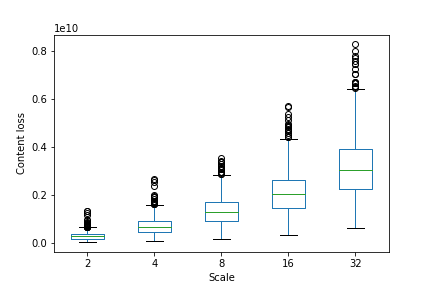
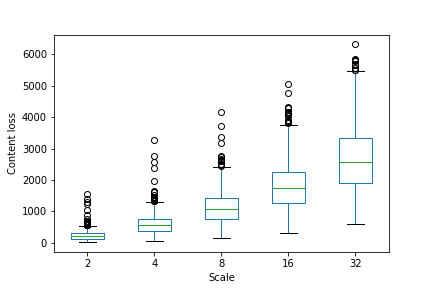
texture loss function plot

diff --git a/create_tfdataset.py b/create_tfdataset.py
@@ -1,60 +1,79 @@
 # -*- coding: utf-8 -*-
 """
-Created on Thu Oct 31 20:54:59 2019
+Created on Wed Nov  6 22:52:49 2019
 
 @author: valdis
 """
-
 import os, glob
 import pandas as pd
 import tensorflow as tf
 tf.compat.v1.enable_eager_execution()
-import matplotlib.pyplot as plt
+import matplotlib.pyplot as plt 
 
 def _parse_image_function(example_proto):
-    return tf.io.parse_single_example(example_proto, feature)
+    features = create_fetures(possible_scales)
+    return tf.io.parse_single_example(example_proto, features)
+
+def create_fetures(possible_scales):
+    features = {'original_image': tf.io.FixedLenFeature([], tf.string), 
+                'image_name': tf.io.FixedLenFeature([], tf.string),
+                'height': tf.io.FixedLenFeature([], tf.int64),
+                'width': tf.io.FixedLenFeature([], tf.int64)}
+    for scale in possible_scales:
+        features.update({'scale_image_' + scale: tf.io.FixedLenFeature([], tf.string)})
+    return features
     
-def loss_functions(original_image, upscale_image): 
-    original_image = tf.cast(original_image, tf.int64); upscale_image = tf.cast(upscale_image, tf.int64)
+def loss_functions(original_image, upscale_image, total_length): 
+    
     psnr_value = tf.image.psnr(original_image, upscale_image, max_val=255).numpy()
     content_loss = tf.reduce_sum(tf.square(tf.subtract(original_image, upscale_image))).numpy()   
-    return psnr_value, content_loss
-
+    
+    original_gram_matrix = tf.reduce_sum(tf.matmul(original_image, original_image, transpose_b=True))/total_length
+    upscale_gram_matrix = tf.reduce_sum(tf.matmul(upscale_image,upscale_image,transpose_b=True))/total_length
+    texture_loss = tf.keras.backend.mean(tf.square(original_gram_matrix-upscale_gram_matrix)).numpy()
+    
+    return psnr_value, content_loss/total_length, texture_loss/total_length
+   
 if __name__ == "__main__":
     
     PSNR_image = 'PSNR.png'
     content_image = 'content_loss.png'
+    texture_image = 'texture_loss.png'
     
     work_dir = os.getcwd()
     tfrecords_folder = os.path.join(work_dir, 'tf_folder')
-    possible_scales = (2,4,8,16,32)
-    
+    possible_scales = [str(scale) for scale in [2,4,8,16,32]]
     tfrerods_list = glob.glob(tfrecords_folder + '/*')
     tfdataset = tf.data.TFRecordDataset(tfrerods_list)
     
-    feature = {'original_image': tf.io.FixedLenFeature([], tf.string), 
-               'image_name': tf.io.FixedLenFeature([], tf.string)}
-    for scale in possible_scales:
-        feature.update({'scale_image_' + str(scale): tf.io.FixedLenFeature([], tf.string)})
-    
     parsed_image_dataset = tfdataset.map(_parse_image_function)
     
-    PSNR_tfdataset = []; content_tfdataset = []
+    PSNR_tfdataset = []; content_tfdataset = []; texture_tfdataset = []
     for image_features in parsed_image_dataset:
         
-        print('Image =',image_features['image_name'].numpy().decode('utf-8'))
-        original_image = tf.io.decode_jpeg(image_features['original_image']).numpy()
+        print(image_features['image_name'].numpy().decode('utf-8'))
+        original_image = tf.io.decode_jpeg(image_features['original_image'])
+        original_image = tf.cast(original_image, tf.int64).numpy()
+    
+        height = image_features['height'].numpy(); width = image_features['width'].numpy() 
+        total_length = 3 * height * width
         
-        PSNR_tfrecord = []; content_tfrecord = []
-        for scale_value in possible_scales: 
-            upscale_image = tf.io.decode_jpeg(image_features['scale_image_' + str(scale_value)]).numpy()
-            psnr_value, content_loss = loss_functions(original_image, upscale_image)
-            PSNR_tfrecord.append(psnr_value); content_tfrecord.append(content_loss)
+        PSNR_tfrecord = []; content_tfrecord = []; texture_tfrecord = []
+        for scale_value in possible_scales:
+            upscale_image = tf.io.decode_jpeg(image_features['scale_image_' + str(scale_value)])
+            upscale_image = tf.cast(upscale_image, tf.int64).numpy()
             
-        PSNR_tfdataset.append(PSNR_tfrecord); content_tfdataset.append(content_tfrecord)
+            psnr_value, content_loss, texture_loss = loss_functions(original_image, upscale_image, total_length)
         
-    PSNR_frame = pd.DataFrame(PSNR_tfdataset, columns = [str(scale) for scale in possible_scales])
-    content_frame = pd.DataFrame(content_tfdataset, columns = [str(scale) for scale in possible_scales])
+            PSNR_tfrecord.append(psnr_value); content_tfrecord.append(content_loss)
+            texture_tfrecord.append(texture_loss)
+           
+        PSNR_tfdataset.append(PSNR_tfrecord); content_tfdataset.append(content_tfrecord)
+        texture_tfdataset.append(texture_tfrecord)
+        
+    PSNR_frame = pd.DataFrame(PSNR_tfdataset, columns = possible_scales)
+    content_frame = pd.DataFrame(content_tfdataset, columns = possible_scales)
+    texture_frame = pd.DataFrame(texture_tfdataset, columns = possible_scales)
     
     plt.figure()
     plt.ylabel('PSNR'); plt.xlabel('Scale')
@@ -65,3 +84,8 @@ if __name__ == "__main__":
     plt.ylabel('Content loss'); plt.xlabel('Scale')
     content_boxplot = content_frame.boxplot(grid = False)
     plt.savefig(os.path.join(work_dir, content_image))
+    
+    plt.figure()
+    plt.ylabel('Texture loss'); plt.xlabel('Scale')
+    texture_boxplot = texture_frame.boxplot(grid = False)
+    plt.savefig(os.path.join(work_dir, texture_image))

diff --git a/create_tfrecord.py b/create_tfrecord.py
@@ -4,11 +4,11 @@ Created on Thu Oct 31 10:34:32 2019
 
 @author: valdis
 """
-import os, glob
+import os, glob, cv2
 import tensorflow as tf
 
-def _int32_feature(value):
-  return tf.train.Feature(int_list=tf.train.Int64List(value=[value]))
+def _int64_feature(value):
+  return tf.train.Feature(int64_list=tf.train.Int64List(value=[value]))
 
 def _bytes_feature(value):
   return tf.train.Feature(bytes_list=tf.train.BytesList(value=[value]))
@@ -18,26 +18,33 @@ if __name__ == "__main__":
     work_dir = os.getcwd()
     tfrecords_folder = os.path.join(work_dir, 'tf_folder')
     upscale_folder = os.path.join(work_dir, 'upscale_folder')
-    
     sub_scale_folder = glob.glob(upscale_folder + '/*')
-    for folder in sub_scale_folder: 
-        
+    
+    for folder in sub_scale_folder:     
         image_name = folder.split('/')[-1]
         list_of_images = os.listdir(folder)
+        print(image_name)
         
         feature = {}
         for item in list_of_images:   
             image_path = os.path.join(folder, item)
-            bytes_image = open(image_path, 'rb').read()
+            
+            cv2_image = cv2.imread(image_path)
+            height, width, _ = cv2_image.shape
+            _, image_jpeg = cv2.imencode('.jpeg', cv2_image)
+            bytes_image = image_jpeg.tobytes()
+
             if '_upscale_' not in item:
                 image_shape = tf.image.decode_jpeg(bytes_image).shape
-                feature.update({'original_image' : _bytes_feature(bytes_image), 'image_name' : _bytes_feature(image_name.encode('utf-8'))})
+                feature.update({'original_image' : _bytes_feature(bytes_image), 
+                                'image_name' : _bytes_feature(image_name.encode('utf-8')), 
+                                'height' : _int64_feature(height), 'width' : _int64_feature(width)})
             else:
                 scale = item.split('_upscale_')[-1].split('.')[0]
                 feature.update({'scale_image_' + scale : _bytes_feature(bytes_image)})
         
-        example = tf.train.Example(features = tf.train.Features(feature = feature))
+        example_features = tf.train.Example(features = tf.train.Features(feature = feature))
     
         tfrecord_file = os.path.join(tfrecords_folder, image_name + '.tfrecord')
         writer = tf.io.TFRecordWriter(tfrecord_file)
-        writer.write(example.SerializeToString())
+        writer.write(example_features.SerializeToString())

diff --git a/README.md b/README.md
@@ -2,4 +2,6 @@
 ![PSNR](https://github.com/valdispy/lab1/blob/master/PSNR.png)
 # Content loss function
 ![content_loss](https://github.com/valdispy/lab1/blob/master/content_loss.png)
+# Texture loss function
+![texture_loss](https://github.com/valdispy/lab1/blob/master/texture_loss.png)
 ## About dataset - 1080 photos of cars (flickr)
